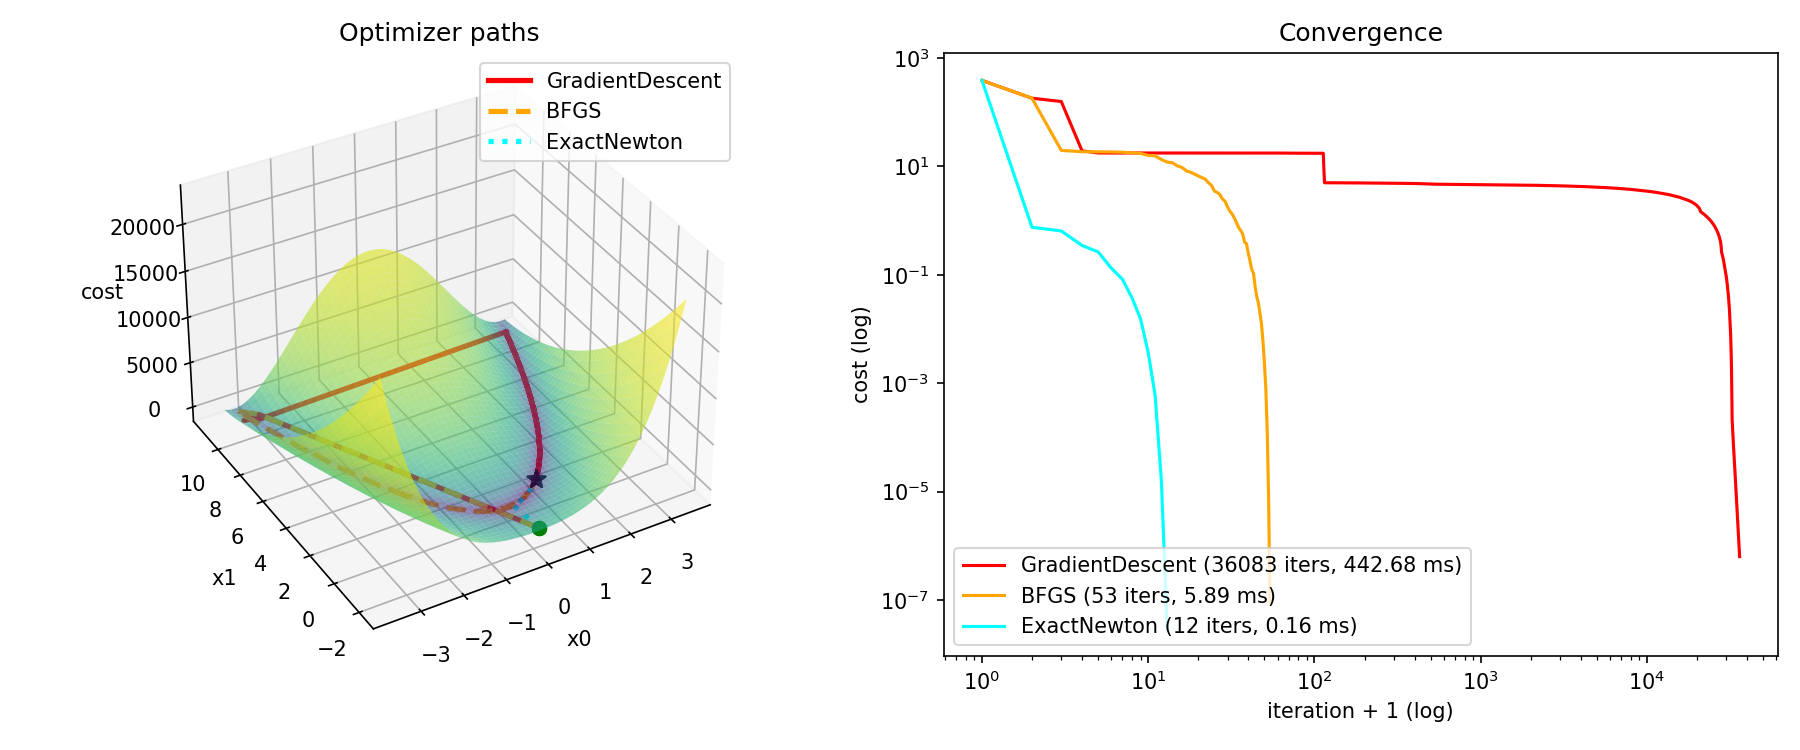
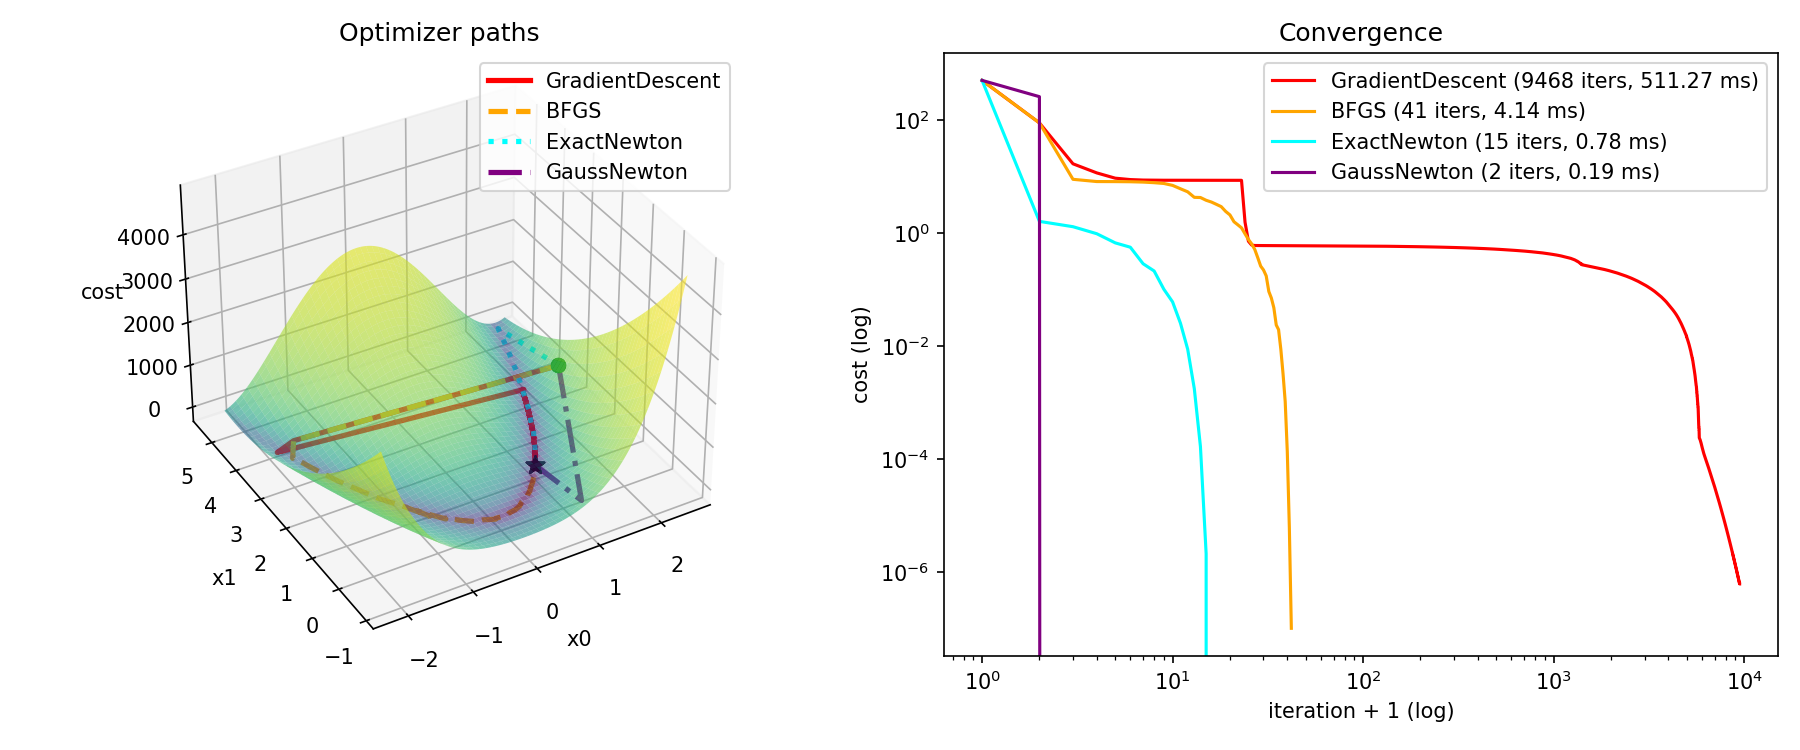
Improvement: since rosenbrock example is naturally a least square problem, also added Gauss-Newton in the comparison between methods

diff --git a/examples/rosenbrock.cpp b/examples/rosenbrock.cpp
@@ -26,6 +26,20 @@ Eigen::VectorXd rosenbrock_gradient(const Eigen::VectorXd& params, const Eigen::
     return grad;
 }
 
+Eigen::VectorXd rosenbrock_residual(const Eigen::VectorXd& params, const Eigen::VectorXd& x) {
+    Eigen::VectorXd r(2);
+    r << params[0] - x[0], std::sqrt(params[1]) * (x[1] - x[0] * x[0]);
+    return r;
+}
+
+Eigen::MatrixXd rosenbrock_residual_gradient(const Eigen::VectorXd& params, const Eigen::VectorXd& x) {
+    double sb = std::sqrt(params[1]);
+    Eigen::MatrixXd J(2, 2);
+    J << -1.0, -2.0 * sb * x[0],
+          0.0, sb;
+    return J;
+}
+
 Eigen::MatrixXd rosenbrock_hessian(const Eigen::VectorXd& params, const Eigen::VectorXd& x) {
     double b = params[1];
     double x0 = x[0];
@@ -65,6 +79,14 @@ int main(int argc, char** argv)
     problem.x0 = x0;
     std::cout << "x0=" << x0.transpose() << "\n";
 
+    auto report = [](const std::string& name, const furiaopt::Result& result, double elapsed_ms) {
+        std::cout << name << ": x=" << result.x.transpose()
+                  << " iters=" << result.summary.iterations
+                  << " cost=" << result.summary.final_cost
+                  << " elapsed_ms=" << elapsed_ms
+                  << " converged=" << (result.summary.converged ? "yes" : "no") << "\n";
+    };
+
     struct MethodCfg { std::string name; furiaopt::DirectionMethod method; };
     std::vector<MethodCfg> methods = {
         {"GradientDescent", furiaopt::DirectionMethod::GradientDescent},
@@ -83,11 +105,23 @@ int main(int argc, char** argv)
         double elapsed_ms = std::chrono::duration<double, std::milli>(std::chrono::steady_clock::now() - t0).count();
         opts.logger->info("METHOD {} elapsed_ms={:.4f}", m.name, elapsed_ms);
 
-        std::cout << m.name << ": x=" << result.x.transpose()
-                  << " iters=" << result.summary.iterations
-                  << " cost=" << result.summary.final_cost
-                  << " elapsed_ms=" << elapsed_ms
-                  << " converged=" << (result.summary.converged ? "yes" : "no") << "\n";
+        report(m.name, result, elapsed_ms);
     }
+
+    furiaopt::LSProblem ls_problem;
+    ls_problem.x0 = x0;
+    ls_problem.residual_func = [params](const Eigen::VectorXd& x) { return rosenbrock_residual(params, x); };
+    ls_problem.gradient_residual_func = [params](const Eigen::VectorXd& x) { return rosenbrock_residual_gradient(params, x); };
+
+    furiaopt::UnconstrainedSolverOptions gn_opts = options;
+    gn_opts.logger->info("=== METHOD GaussNewton ===");
+
+    furiaopt::UnconstrainedSolver gn_solver(gn_opts, ls_problem);
+    auto t0 = std::chrono::steady_clock::now();
+    furiaopt::Result gn_result = gn_solver.solve();
+    double gn_elapsed_ms = std::chrono::duration<double, std::milli>(std::chrono::steady_clock::now() - t0).count();
+    gn_opts.logger->info("METHOD GaussNewton elapsed_ms={:.4f}", gn_elapsed_ms);
+
+    report("GaussNewton", gn_result, gn_elapsed_ms);
     return 0;
 }

diff --git a/visualizers/rosenbrock.py b/visualizers/rosenbrock.py
@@ -1,7 +1,7 @@
 #!/usr/bin/env python3
 """Parses solver_log.log (written by examples/rosenbrock.cpp) and plots the
-GradientDescent/BFGS/ExactNewton paths on the Rosenbrock surface plus
-cost-vs-iteration."""
+GradientDescent/BFGS/ExactNewton/GaussNewton paths on the Rosenbrock surface
+plus cost-vs-iteration."""
 import argparse
 import os
 import re
@@ -46,9 +46,9 @@ def rosenbrock(x, y, a=1.0, b=100.0):
 
 def plot(methods, out_dir, show):
     fig = plt.figure(figsize=(12, 5))
-    colors = {"GradientDescent": "red", "BFGS": "orange", "ExactNewton": "cyan"}
+    colors = {"GradientDescent": "red", "BFGS": "orange", "ExactNewton": "cyan", "GaussNewton": "purple"}
 
-    linestyles = {"GradientDescent": "-", "BFGS": "--", "ExactNewton": ":"}
+    linestyles = {"GradientDescent": "-", "BFGS": "--", "ExactNewton": ":", "GaussNewton": "-."}
 
     all_x0 = [v for d in methods.values() for v in d["x0"]]
     all_x1 = [v for d in methods.values() for v in d["x1"]]

diff --git a/README.md b/README.md
@@ -33,11 +33,11 @@ The fundamental concepts, algorithms, and implementation strategy originate from
 ## Examples
 
 ### Unconstrained NLP
-The chosen example for NLP problem solving is the classic Rosenbrock problem, comparing Gradient Descent, BFGS, and Exact Newton descent directions from the same random starting point:
+The chosen example for Unconstrained NLP problem solving is the classic Rosenbrock problem, comparing Gradient Descent, BFGS, Exact Newton and Gauss-Newton all from the same random starting point:
 
 $$f(x_0, x_1) = (a - x_0)^2 + b(x_1 - x_0^2)^2, \quad a = 1,\ b = 100$$
 
-![Rosenbrock: Gradient Descent vs BFGS vs Exact Newton](docs/images/rosenbrock.png)
+![Rosenbrock: Gradient Descent vs BFGS vs Exact Newton vs Gauss-Newton](docs/images/rosenbrock.png)
 
 ### Constrained QP
 Smooths a 2D path pinned at unevenly-spaced waypoints, confined to a straight corridor around the start-end line:
